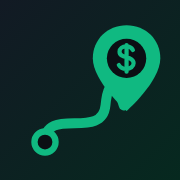
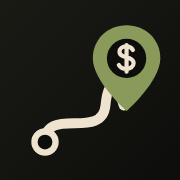
Cambiar colores a negro, verde musgo y beige
Fondo negro cálido, texto beige y verde musgo para ganancias y botones.
Las pérdidas pasan a terracota y el veredicto "Justo" a ocre. El ícono
y el color de la barra del sistema usan la misma paleta.

Claude-Session: https://claude.ai/code/session_01HZvyRaBN7u4VEzQicfV81L

Changed region(s): [[0.1667, 0.1389, 0.9167, 0.8889], [0.75, 0.7222, 1.0, 1.0]]

diff --git a/styles.css b/styles.css
@@ -1,16 +1,16 @@
 :root {
-  --bg: #0B0F14;
-  --card: #141A22;
-  --card-2: #1B232D;
-  --borde: #26303C;
-  --texto: #E8EDF3;
-  --muted: #8D9AAB;
-  --verde: #10B981;
-  --verde-suave: rgba(16, 185, 129, .14);
-  --rojo: #EF4444;
-  --rojo-suave: rgba(239, 68, 68, .14);
-  --amarillo: #F5B70B;
-  --amarillo-suave: rgba(245, 183, 11, .14);
+  --bg: #0D0D0B;
+  --card: #181813;
+  --card-2: #23221B;
+  --borde: #36342A;
+  --texto: #EDE3CF;
+  --muted: #A69D88;
+  --verde: #8A9A5B;
+  --verde-suave: rgba(138, 154, 91, .16);
+  --rojo: #C8553D;
+  --rojo-suave: rgba(200, 85, 61, .16);
+  --amarillo: #D9A441;
+  --amarillo-suave: rgba(217, 164, 65, .16);
   --radio: 18px;
   --nav-alto: 64px;
   --safe-top: env(safe-area-inset-top, 0px);
@@ -44,7 +44,7 @@ h2 { font-size: 20px; margin-bottom: 14px; }
   position: sticky; top: 0; z-index: 20;
   display: flex; align-items: center; justify-content: space-between;
   padding: calc(var(--safe-top) + 10px) 16px 10px;
-  background: rgba(11, 15, 20, .92);
+  background: rgba(13, 13, 11, .92);
   -webkit-backdrop-filter: blur(12px); backdrop-filter: blur(12px);
   border-bottom: 1px solid var(--borde);
 }
@@ -74,7 +74,7 @@ main {
   padding: 18px;
   margin-bottom: 14px;
 }
-.card.aviso { background: var(--verde-suave); border-color: rgba(16, 185, 129, .35); }
+.card.aviso { background: rgba(237, 227, 207, .08); border-color: rgba(237, 227, 207, .3); }
 .card.aviso p { margin: 0 0 8px; }
 .link { background: none; border: 0; padding: 4px 0; color: var(--verde); font-weight: 600; }
 
@@ -101,9 +101,9 @@ main {
   transition: transform .08s, opacity .15s;
 }
 .btn:active { transform: scale(.98); }
-.btn-primary { background: var(--verde); color: #04261A; }
+.btn-primary { background: var(--verde); color: #12140C; }
 .btn-ghost { background: var(--card-2); border: 1px solid var(--borde); }
-.btn-danger { background: var(--rojo-suave); color: var(--rojo); border: 1px solid rgba(239, 68, 68, .4); }
+.btn-danger { background: var(--rojo-suave); color: var(--rojo); border: 1px solid rgba(200, 85, 61, .45); }
 .btn-danger.solido { background: var(--rojo); color: #fff; }
 .btn-block { width: 100%; margin-top: 10px; }
 .btn-xl { width: 100%; min-height: 64px; font-size: 20px; border-radius: 18px; }
@@ -171,14 +171,14 @@ input[type="date"]:focus { border-color: var(--verde); outline: none; }
 }
 .stepper small { color: var(--muted); font-size: 12px; }
 .stepper li.hecho span { background: var(--verde-suave); border-color: var(--verde); color: var(--verde); cursor: pointer; }
-.stepper li.actual span { background: var(--verde); border-color: var(--verde); color: #04261A; }
+.stepper li.actual span { background: var(--verde); border-color: var(--verde); color: #12140C; }
 .stepper li.actual small { color: var(--texto); font-weight: 600; }
 
 .wizard-nav {
   position: sticky; bottom: calc(var(--nav-alto) + var(--safe-bottom) + 8px);
   display: grid; grid-template-columns: 1fr 2fr; gap: 10px;
   margin: 0 -16px; padding: 10px 16px 8px;
-  background: linear-gradient(to bottom, rgba(11, 15, 20, 0), var(--bg) 14px);
+  background: linear-gradient(to bottom, rgba(13, 13, 11, 0), var(--bg) 14px);
 }
 .wizard-nav.solo { grid-template-columns: 1fr; }
 
@@ -190,8 +190,8 @@ input[type="date"]:focus { border-color: var(--verde); outline: none; }
 .desglose li.total span:first-child { color: var(--texto); }
 
 .resultado-neto { text-align: center; }
-.resultado-neto.pos { background: var(--verde-suave); border-color: rgba(16, 185, 129, .45); }
-.resultado-neto.neg { background: var(--rojo-suave); border-color: rgba(239, 68, 68, .45); }
+.resultado-neto.pos { background: var(--verde-suave); border-color: rgba(138, 154, 91, .5); }
+.resultado-neto.neg { background: var(--rojo-suave); border-color: rgba(200, 85, 61, .5); }
 .resultado-neto .monto-xl { font-size: 50px; }
 .resultado-neto .metricas, .metricas.cuatro { grid-template-columns: 1fr 1fr; }
 
@@ -232,7 +232,7 @@ input[type="date"]:focus { border-color: var(--verde); outline: none; }
   display: grid; grid-template-columns: repeat(4, 1fr);
   height: calc(var(--nav-alto) + var(--safe-bottom));
   padding-bottom: var(--safe-bottom);
-  background: rgba(14, 19, 26, .96);
+  background: rgba(18, 18, 14, .96);
   -webkit-backdrop-filter: blur(12px); backdrop-filter: blur(12px);
   border-top: 1px solid var(--borde);
 }

diff --git a/index.html b/index.html
@@ -5,7 +5,7 @@
   <meta name="viewport" content="width=device-width, initial-scale=1, viewport-fit=cover">
   <title>CalculaTuRuta</title>
   <meta name="description" content="Calcula tu ganancia real como conductor de Uber, DiDi, Cabify e InDrive en Chile.">
-  <meta name="theme-color" content="#0B0F14">
+  <meta name="theme-color" content="#0D0D0B">
   <meta name="apple-mobile-web-app-capable" content="yes">
   <meta name="mobile-web-app-capable" content="yes">
   <meta name="apple-mobile-web-app-status-bar-style" content="black-translucent">
